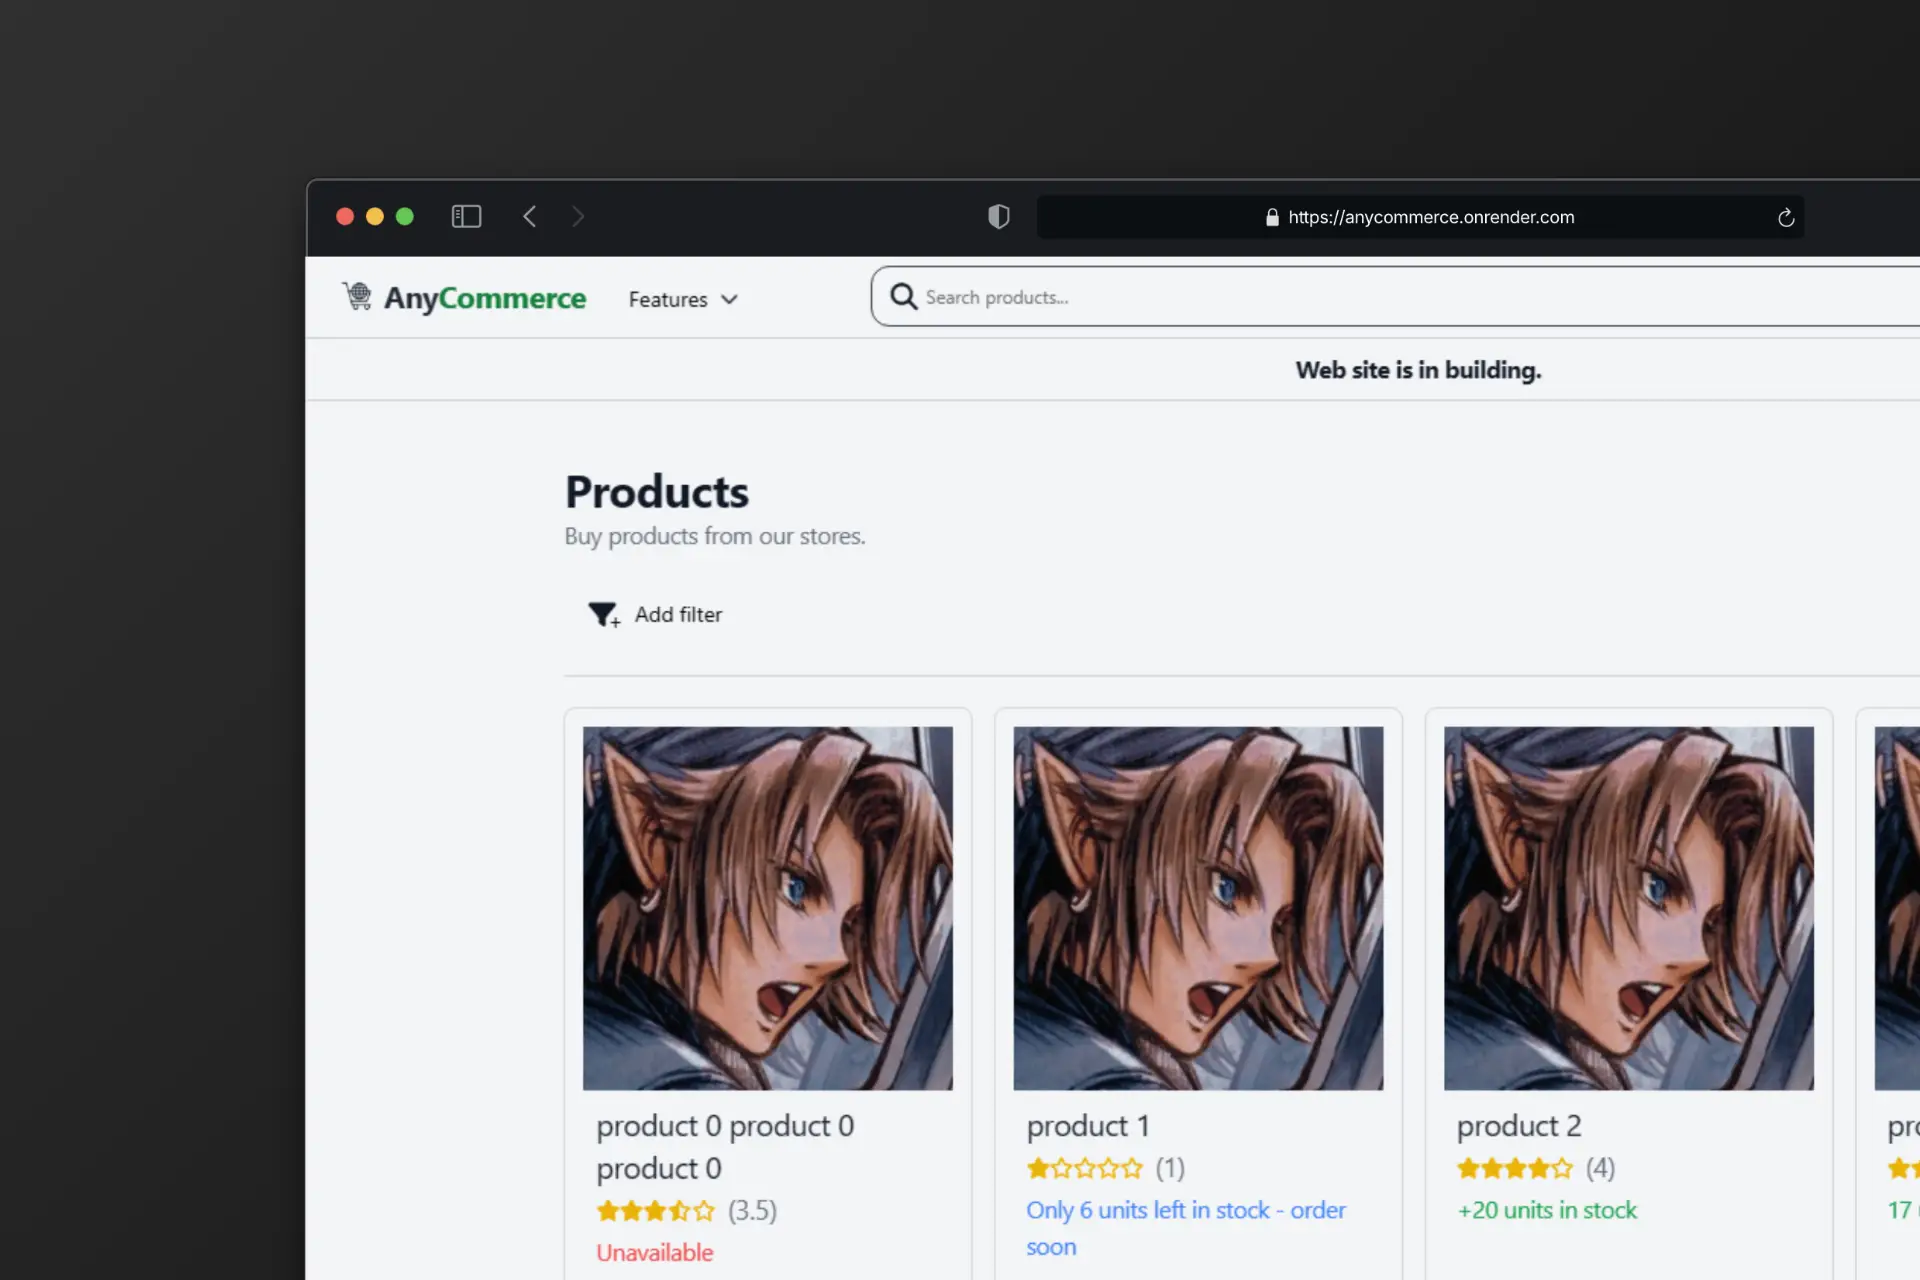
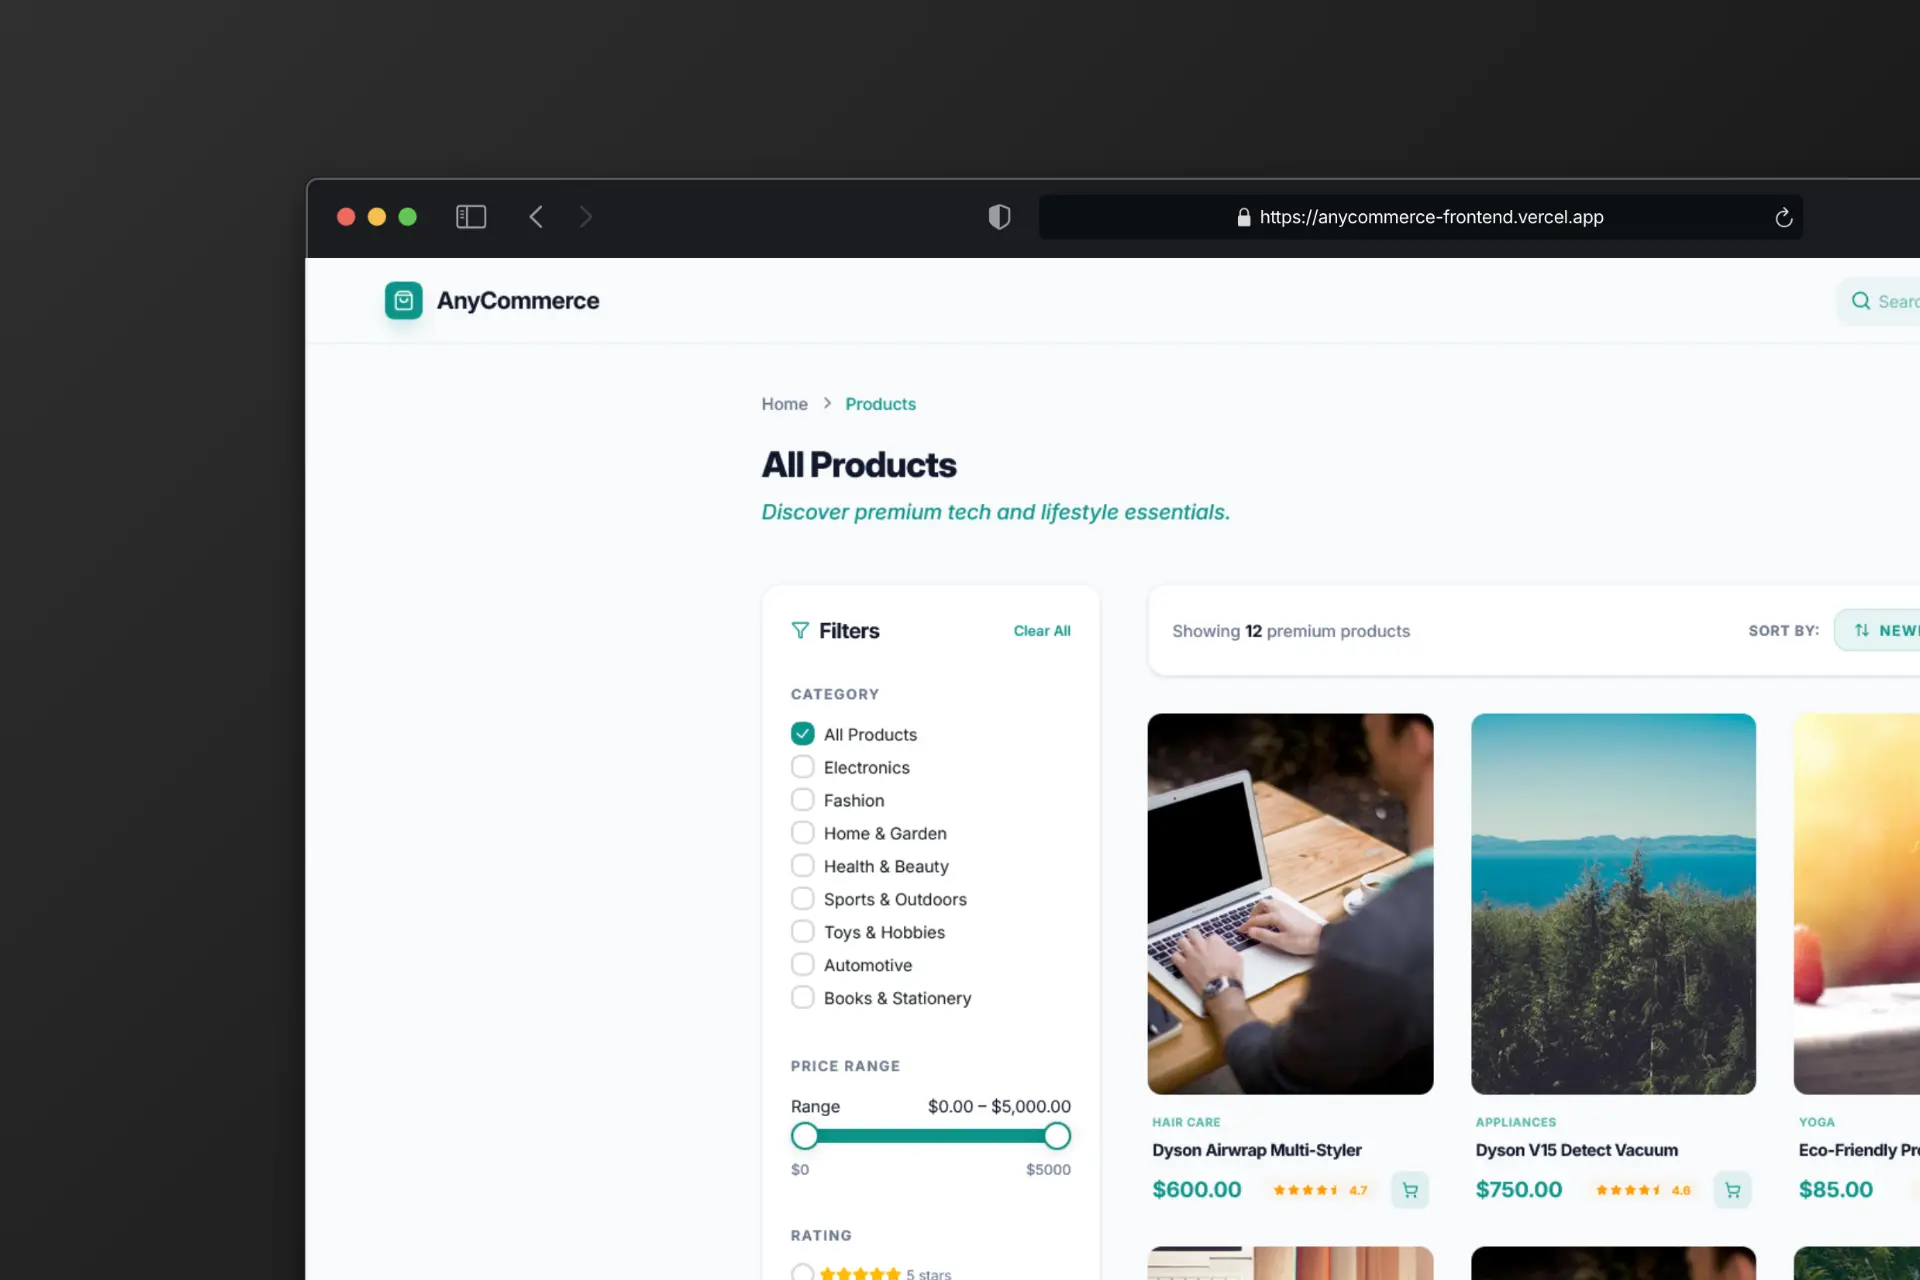
feat: updationg anycommerce project info

diff --git a/src/data/portfolio.ts b/src/data/portfolio.ts
@@ -105,10 +105,10 @@ export const portfolioData = {
                 es: "Un marketplace dinámico de comercio electrónico donde los usuarios pueden comprar y vender productos de forma fluida. Optimizado para un alto rendimiento con una interfaz limpia y moderna, y potentes funciones de gestión de productos."
             },
             image: AnyCommerce,
-            tags: ["ECommerce", "ReactJS", "TailwindCSS", "TypeScript", "FastAPI"],
+            tags: ["ReactJS", "TailwindCSS", "TypeScript", "FastAPI", "Stripe", "AI Assisted"],
             links: {
-                code: "https://github.com/JeremyJS20/AnyCommerce",
-                preview: "https://anycommerce.onrender.com/"
+                code: "https://github.com/JeremyJS20/Anycommerce-Frontend",
+                preview: "https://anycommerce-frontend.vercel.app"
             }
         },
         {
